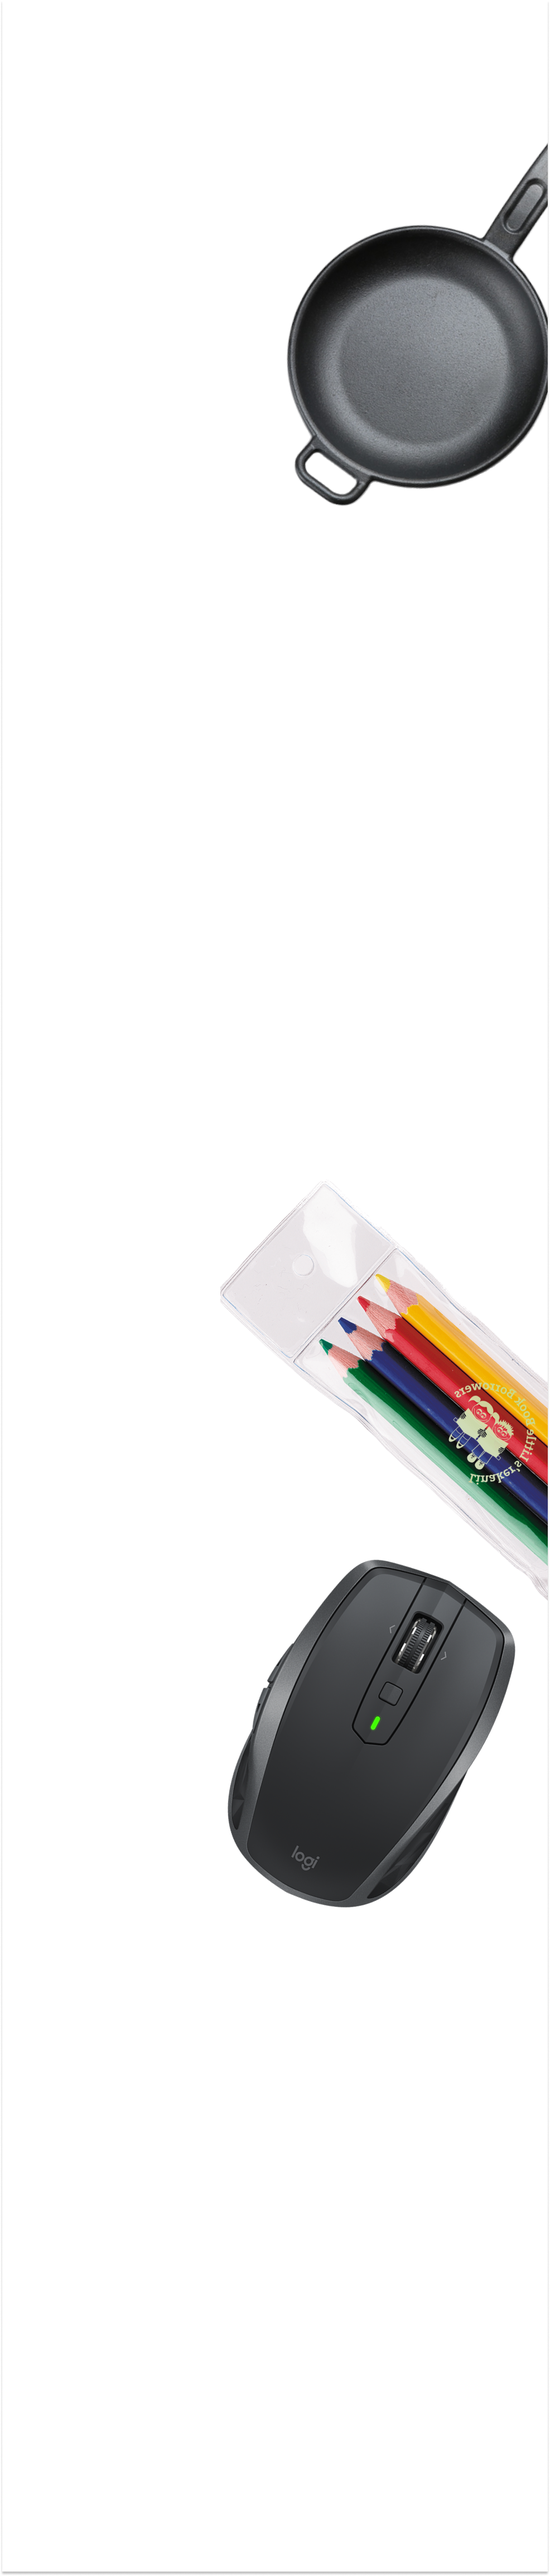
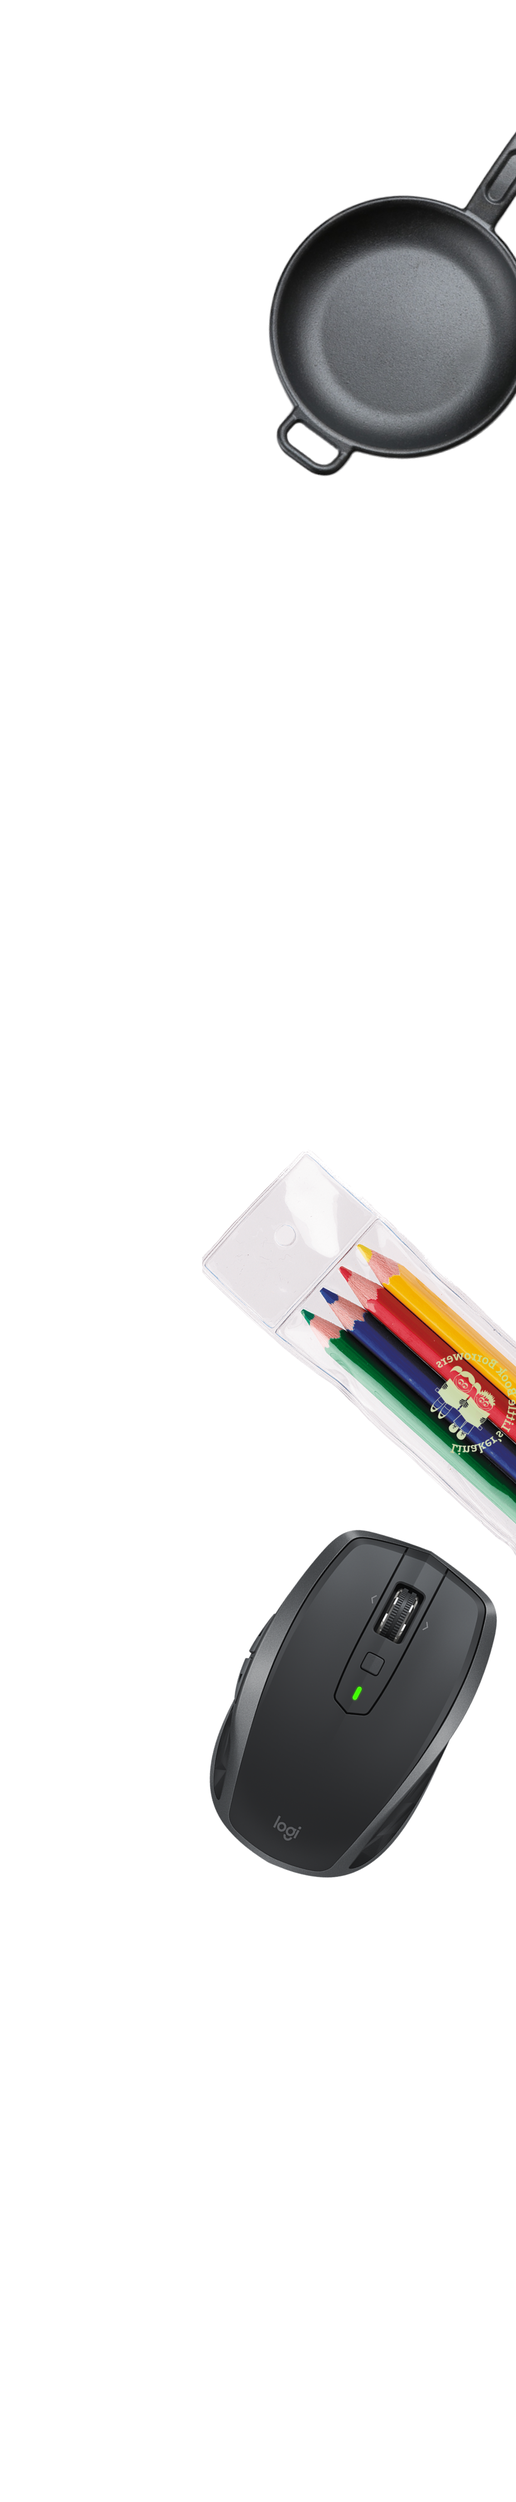
Restarted Experience page

Changed region(s): [[0.3931, 0.4683, 1.0, 0.7493], [0.514, 0.0312, 1.0, 0.2186], [0.0, 0.9991, 0.9978, 1.0]]

diff --git a/Experience.html b/Experience.html
@@ -31,14 +31,22 @@
         </div>
     </div>
     <div class="parallax__group" id="ExperienceGroup2">
-        <div id="ContentBoxExperience" class="parallax__layer parallax__layer--base"> 
-            <div id="ContentDivider"></div>
-        </div>
-    </div>
-    <div class="parallax__group" id="ExperienceGroup2-1">
-        <div id="ParallaxBackground" class="parallax__layer parallax__layer--back">
-            <img src="backgroundimages/Frame 2.png"></img>
-            <img src="backgroundimages/Frame 1 (3).png"></img>
+        <div class="parallax__group" id="IndexGroup2">
+            <div id="ContentBoxExperience" class="parallax__layer parallax__layer--base">
+                <img src="backgroundimages/Frame 2.png"></img>
+                <img src="backgroundimages/Frame 1 (3).png"></img>
+                <div class="ContentHeader">
+                    <h1>Experience</h1>
+                </div>
+                <div id="ExperienceFlex1">
+                    <div><img src=""></img></div>
+                    <div><a></a></div>
+                </div>
+                <div id="ExperienceFlex2">
+                    <div><img src=""></img></div>
+                    <div><a></a></div>
+                </div>
+            </div>
         </div>
     </div>
     <div class="parallax__group" id="Group3">

diff --git a/styles.css b/styles.css
@@ -106,7 +106,6 @@ body, html {
 
 #Group3{
     height: 436px;
-    z-index: 2;
 }
 
 #IndexGroup2{
@@ -114,13 +113,7 @@ body, html {
 }
 
 #ExperienceGroup2{
-    height: 200px;
-    z-index: 2;
-}
-
-#ExperienceGroup2-1{
-    height: 1000px;
-    z-index: 1;
+    height: 1500px;
 }
 
 
@@ -158,7 +151,10 @@ body, html {
 }
 
 #ContentBoxExperience {
-    height: 1000px;
+    background-color: white;
+    height: 1500px;
+    display: flex;
+    justify-content: space-between;
 }
 
 .ContentHeader{
@@ -384,10 +380,8 @@ body, html {
 
 /* Content */
 
-#ParallaxBackground{
-    display: flex;
-    top: 0;
-
-    height: 100%;
-    justify-content: space-between;
+#ContentBoxExperience img{
+    margin-top: 250px;
+    height: 1500px;
 }
+
